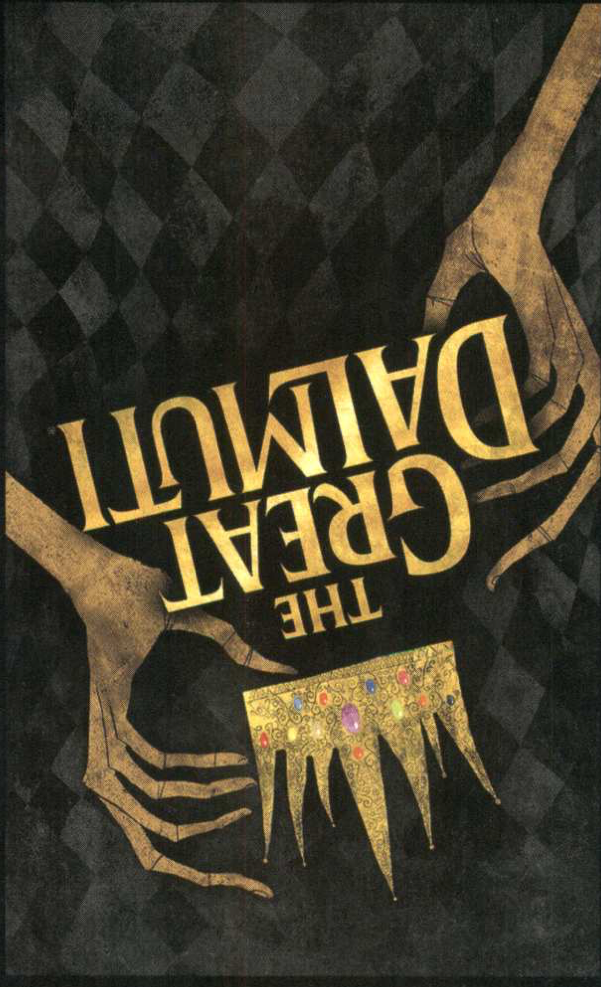
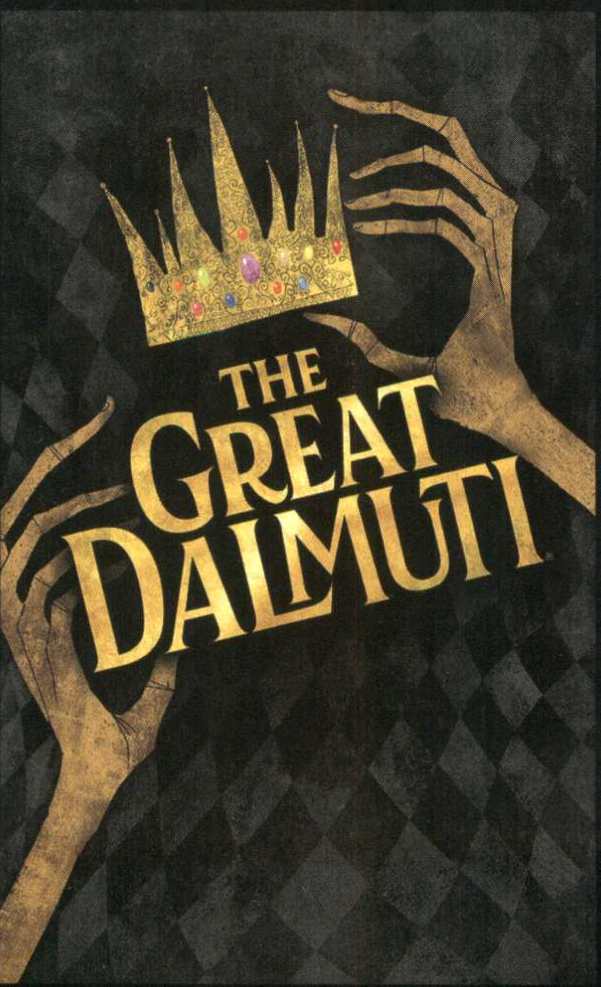
flipped card-back over not sure why, but card support isn't allowing the upload of this ... opened a bug with them https://github.com/spacemandev-git/fvtt-card-support/issues/83

diff --git a/README.md b/README.md
@@ -1,7 +1,7 @@
-# Great dalmuti deck of cards for Foundry VTT
+# Great Dalmuti deck of cards for Foundry VTT
 
 ## make the deck
 
 ```sh
-zip -r dalmuti deck.yaml images
+zip -r great-dalmuti deck.yaml images
 ```
